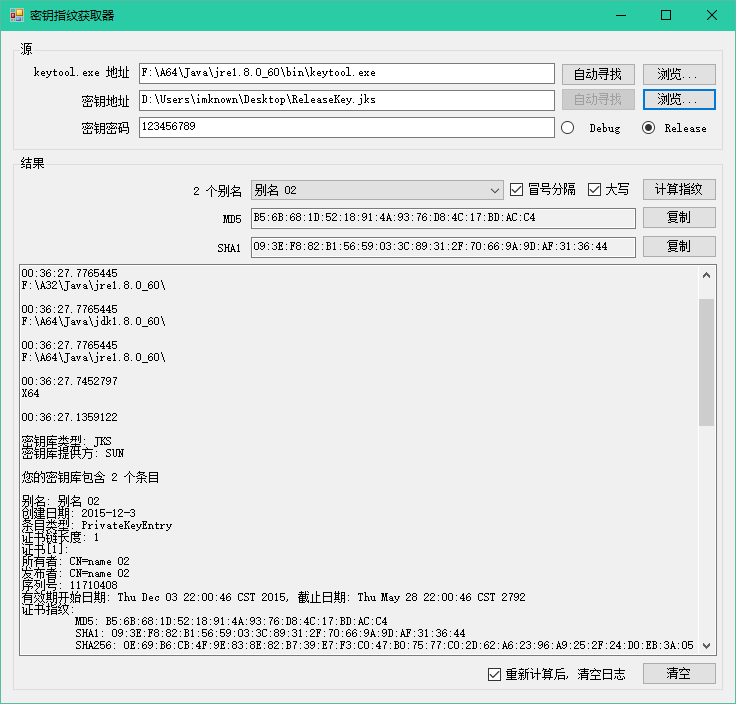
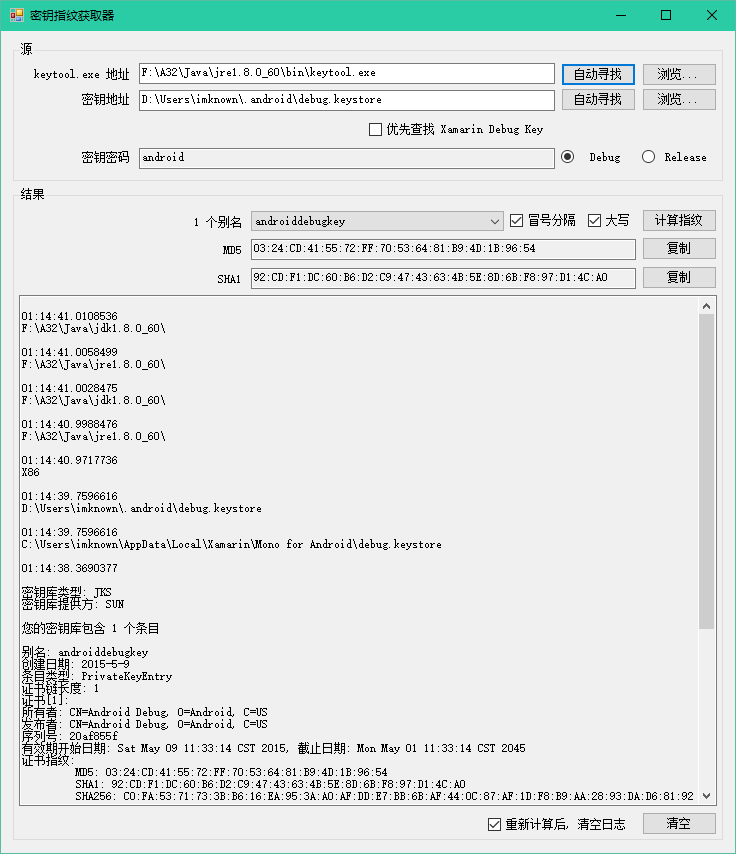
Support Xamarin NOW :)

diff --git a/KeyFingerprintLooker/MainForm.Designer.cs b/KeyFingerprintLooker/MainForm.Designer.cs
@@ -64,6 +64,7 @@ namespace KeyFingerprintLooker
 			this.comboBox1 = new System.Windows.Forms.ComboBox();
 			this.checkBox2 = new System.Windows.Forms.CheckBox();
 			this.label1 = new System.Windows.Forms.Label();
+			this.xamarin_first_chk = new System.Windows.Forms.CheckBox();
 			this.groupBox2.SuspendLayout();
 			this.groupBox1.SuspendLayout();
 			this.SuspendLayout();
@@ -108,6 +109,7 @@ namespace KeyFingerprintLooker
 			// 
 			this.groupBox2.Anchor = ((System.Windows.Forms.AnchorStyles)(((System.Windows.Forms.AnchorStyles.Top | System.Windows.Forms.AnchorStyles.Left) 
 									| System.Windows.Forms.AnchorStyles.Right)));
+			this.groupBox2.Controls.Add(this.xamarin_first_chk);
 			this.groupBox2.Controls.Add(this.auto_fetch_keytool_file_path_btn);
 			this.groupBox2.Controls.Add(this.browse_keytool_file_path_btn);
 			this.groupBox2.Controls.Add(this.label6);
@@ -122,7 +124,7 @@ namespace KeyFingerprintLooker
 			this.groupBox2.Controls.Add(this.browse_keystore_file_path_btn);
 			this.groupBox2.Location = new System.Drawing.Point(12, 12);
 			this.groupBox2.Name = "groupBox2";
-			this.groupBox2.Size = new System.Drawing.Size(710, 108);
+			this.groupBox2.Size = new System.Drawing.Size(710, 139);
 			this.groupBox2.TabIndex = 12;
 			this.groupBox2.TabStop = false;
 			this.groupBox2.Text = "源";
@@ -151,7 +153,7 @@ namespace KeyFingerprintLooker
 			// 
 			// label6
 			// 
-			this.label6.Location = new System.Drawing.Point(6, 18);
+			this.label6.Location = new System.Drawing.Point(6, 20);
 			this.label6.Name = "label6";
 			this.label6.Size = new System.Drawing.Size(114, 23);
 			this.label6.TabIndex = 23;
@@ -173,7 +175,7 @@ namespace KeyFingerprintLooker
 			// 
 			// label5
 			// 
-			this.label5.Location = new System.Drawing.Point(6, 47);
+			this.label5.Location = new System.Drawing.Point(6, 45);
 			this.label5.Name = "label5";
 			this.label5.Size = new System.Drawing.Size(114, 23);
 			this.label5.TabIndex = 21;
@@ -182,7 +184,7 @@ namespace KeyFingerprintLooker
 			// 
 			// label4
 			// 
-			this.label4.Location = new System.Drawing.Point(6, 74);
+			this.label4.Location = new System.Drawing.Point(6, 103);
 			this.label4.Name = "label4";
 			this.label4.Size = new System.Drawing.Size(114, 23);
 			this.label4.TabIndex = 20;
@@ -192,7 +194,7 @@ namespace KeyFingerprintLooker
 			// keystore_file_type_release_rdbtn
 			// 
 			this.keystore_file_type_release_rdbtn.Anchor = ((System.Windows.Forms.AnchorStyles)((System.Windows.Forms.AnchorStyles.Top | System.Windows.Forms.AnchorStyles.Right)));
-			this.keystore_file_type_release_rdbtn.Location = new System.Drawing.Point(629, 73);
+			this.keystore_file_type_release_rdbtn.Location = new System.Drawing.Point(629, 102);
 			this.keystore_file_type_release_rdbtn.Name = "keystore_file_type_release_rdbtn";
 			this.keystore_file_type_release_rdbtn.Size = new System.Drawing.Size(75, 24);
 			this.keystore_file_type_release_rdbtn.TabIndex = 8;
@@ -205,7 +207,7 @@ namespace KeyFingerprintLooker
 			// 
 			this.keystore_file_type_debug_rdbtn.Anchor = ((System.Windows.Forms.AnchorStyles)((System.Windows.Forms.AnchorStyles.Top | System.Windows.Forms.AnchorStyles.Right)));
 			this.keystore_file_type_debug_rdbtn.Checked = true;
-			this.keystore_file_type_debug_rdbtn.Location = new System.Drawing.Point(548, 73);
+			this.keystore_file_type_debug_rdbtn.Location = new System.Drawing.Point(548, 102);
 			this.keystore_file_type_debug_rdbtn.Name = "keystore_file_type_debug_rdbtn";
 			this.keystore_file_type_debug_rdbtn.Size = new System.Drawing.Size(75, 24);
 			this.keystore_file_type_debug_rdbtn.TabIndex = 7;
@@ -220,7 +222,7 @@ namespace KeyFingerprintLooker
 			this.password_txt.AllowDrop = true;
 			this.password_txt.Anchor = ((System.Windows.Forms.AnchorStyles)(((System.Windows.Forms.AnchorStyles.Top | System.Windows.Forms.AnchorStyles.Left) 
 									| System.Windows.Forms.AnchorStyles.Right)));
-			this.password_txt.Location = new System.Drawing.Point(126, 74);
+			this.password_txt.Location = new System.Drawing.Point(126, 105);
 			this.password_txt.Name = "password_txt";
 			this.password_txt.ReadOnly = true;
 			this.password_txt.Size = new System.Drawing.Size(416, 21);
@@ -282,7 +284,7 @@ namespace KeyFingerprintLooker
 			this.operation_log_txt.Name = "operation_log_txt";
 			this.operation_log_txt.ReadOnly = true;
 			this.operation_log_txt.ScrollBars = System.Windows.Forms.ScrollBars.Vertical;
-			this.operation_log_txt.Size = new System.Drawing.Size(698, 281);
+			this.operation_log_txt.Size = new System.Drawing.Size(698, 339);
 			this.operation_log_txt.TabIndex = 13;
 			this.operation_log_txt.Text = "\r\n无日志";
 			// 
@@ -300,7 +302,7 @@ namespace KeyFingerprintLooker
 			// button6
 			// 
 			this.button6.Anchor = ((System.Windows.Forms.AnchorStyles)((System.Windows.Forms.AnchorStyles.Bottom | System.Windows.Forms.AnchorStyles.Right)));
-			this.button6.Location = new System.Drawing.Point(629, 394);
+			this.button6.Location = new System.Drawing.Point(629, 452);
 			this.button6.Name = "button6";
 			this.button6.Size = new System.Drawing.Size(75, 23);
 			this.button6.TabIndex = 11;
@@ -358,9 +360,9 @@ namespace KeyFingerprintLooker
 			this.groupBox1.Controls.Add(this.label2);
 			this.groupBox1.Controls.Add(this.SHA1_txt);
 			this.groupBox1.Controls.Add(this.checkBox1);
-			this.groupBox1.Location = new System.Drawing.Point(12, 126);
+			this.groupBox1.Location = new System.Drawing.Point(12, 157);
 			this.groupBox1.Name = "groupBox1";
-			this.groupBox1.Size = new System.Drawing.Size(710, 423);
+			this.groupBox1.Size = new System.Drawing.Size(710, 481);
 			this.groupBox1.TabIndex = 11;
 			this.groupBox1.TabStop = false;
 			this.groupBox1.Text = "结果";
@@ -370,7 +372,7 @@ namespace KeyFingerprintLooker
 			this.checkBox4.Anchor = ((System.Windows.Forms.AnchorStyles)((System.Windows.Forms.AnchorStyles.Bottom | System.Windows.Forms.AnchorStyles.Right)));
 			this.checkBox4.Checked = true;
 			this.checkBox4.CheckState = System.Windows.Forms.CheckState.Checked;
-			this.checkBox4.Location = new System.Drawing.Point(475, 395);
+			this.checkBox4.Location = new System.Drawing.Point(475, 453);
 			this.checkBox4.Name = "checkBox4";
 			this.checkBox4.Size = new System.Drawing.Size(148, 24);
 			this.checkBox4.TabIndex = 19;
@@ -411,12 +413,24 @@ namespace KeyFingerprintLooker
 			this.label1.Text = "别名";
 			this.label1.TextAlign = System.Drawing.ContentAlignment.MiddleRight;
 			// 
+			// xamarin_first_chk
+			// 
+			this.xamarin_first_chk.Anchor = ((System.Windows.Forms.AnchorStyles)((System.Windows.Forms.AnchorStyles.Top | System.Windows.Forms.AnchorStyles.Right)));
+			this.xamarin_first_chk.Checked = true;
+			this.xamarin_first_chk.CheckState = System.Windows.Forms.CheckState.Checked;
+			this.xamarin_first_chk.Location = new System.Drawing.Point(356, 75);
+			this.xamarin_first_chk.Name = "xamarin_first_chk";
+			this.xamarin_first_chk.Size = new System.Drawing.Size(186, 24);
+			this.xamarin_first_chk.TabIndex = 20;
+			this.xamarin_first_chk.Text = "优先查找 Xamarin Debug Key";
+			this.xamarin_first_chk.UseVisualStyleBackColor = true;
+			// 
 			// MainForm
 			// 
 			this.AllowDrop = true;
 			this.AutoScaleDimensions = new System.Drawing.SizeF(6F, 12F);
 			this.AutoScaleMode = System.Windows.Forms.AutoScaleMode.Font;
-			this.ClientSize = new System.Drawing.Size(734, 561);
+			this.ClientSize = new System.Drawing.Size(734, 650);
 			this.Controls.Add(this.groupBox2);
 			this.Controls.Add(this.groupBox1);
 			this.MinimumSize = new System.Drawing.Size(750, 600);
@@ -429,6 +443,7 @@ namespace KeyFingerprintLooker
 			this.groupBox1.PerformLayout();
 			this.ResumeLayout(false);
 		}
+		private System.Windows.Forms.CheckBox xamarin_first_chk;
 		private System.Windows.Forms.Button browse_keytool_file_path_btn;
 		private System.Windows.Forms.Button auto_fetch_keytool_file_path_btn;
 		private System.Windows.Forms.Label label5;

diff --git a/KeyFingerprintLooker/MainForm.cs b/KeyFingerprintLooker/MainForm.cs
@@ -110,11 +110,29 @@ namespace KeyFingerprintLooker
 		
 		void Button1Click(object sender, EventArgs e)
 		{
+			String Path = "未找到有效的文件";
+			
 			string MyDocumentFolderPath = Environment.GetFolderPath(Environment.SpecialFolder.Personal);
-			
 			string DotAndroidFolderPath = MyDocumentFolderPath.Substring(0, MyDocumentFolderPath.LastIndexOf(@"\"));
+			string GoogleOfficialKey = DotAndroidFolderPath + @"\.android\" + "debug.keystore";
+
+			string XamarinUnofficialKey = Environment.GetEnvironmentVariable("LocalAppData") + @"\Xamarin\Mono for Android\debug.keystore";
 			
-			keystore_file_path_txt.Text = DotAndroidFolderPath + @"\.android\" + "debug.keystore";
+			if(File.Exists(XamarinUnofficialKey))
+			{
+				AppendLog(XamarinUnofficialKey);
+				
+				Path = XamarinUnofficialKey;
+			}
+			
+			if((!xamarin_first_chk.Checked || !File.Exists(XamarinUnofficialKey)) && File.Exists(GoogleOfficialKey))
+			{
+				AppendLog(GoogleOfficialKey);
+				
+				Path = GoogleOfficialKey;
+			}
+			
+			keystore_file_path_txt.Text = Path;
 		}
 
 		void Button6Click(object sender, EventArgs e)
@@ -168,6 +186,11 @@ namespace KeyFingerprintLooker
 				AppendLog("密码错误");
 				return;
 			}
+			else if(CmdResult.Contains(Password.BAD_FILE_ERROR))
+			{	
+				AppendLog("密钥文件已损坏");
+				return;
+			}
 			else if(CmdResult == string.Empty)
 			{
 				AppendLog("keytool.exe 文件路径有误, 或者存在空格");
@@ -187,7 +210,7 @@ namespace KeyFingerprintLooker
 			}
 		}
 		
-		[method: Obsolete("Use FindInstallLocationOfJava() instead")]   
+		[method: Obsolete("Use FindInstallLocationOfJava() instead")]
 		string GetKeytoolPath()
 		{
 			string KeytoolPath = "";

diff --git a/KeyFingerprintLooker/Model/Password.cs b/KeyFingerprintLooker/Model/Password.cs
@@ -17,6 +17,7 @@ namespace KeyFingerprintLooker.Model
 	{
 		public const string DEBUG_KEYSTORE_PASSWORD = "android";
 		public const string PASSWORD_ERROR = "Keystore was tampered with, or password was incorrect";
+		public const string BAD_FILE_ERROR = "密钥库文件存在, 但为空";
 		
 		private string _ReleaseKeyStorePassword = DEBUG_KEYSTORE_PASSWORD;
 		public string ReleaseKeyStorePassword
